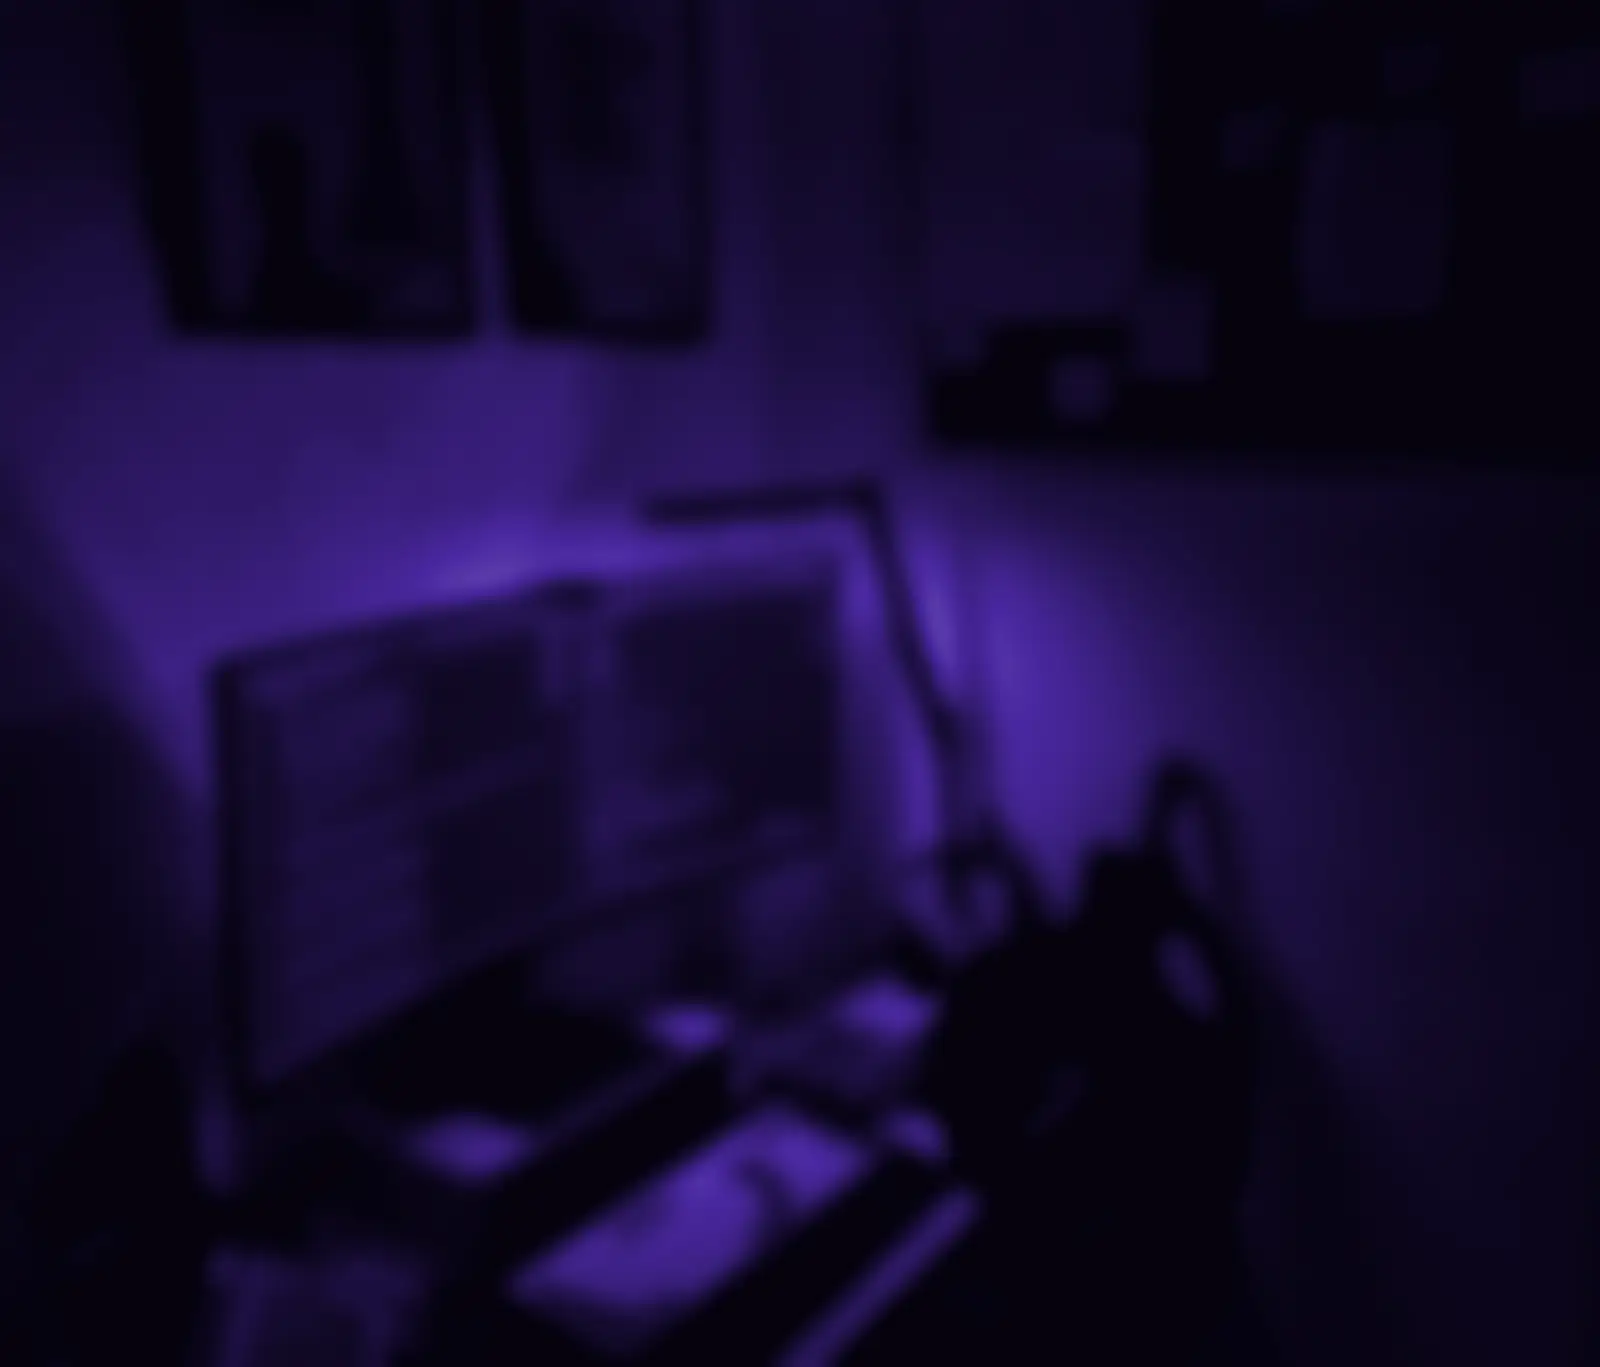
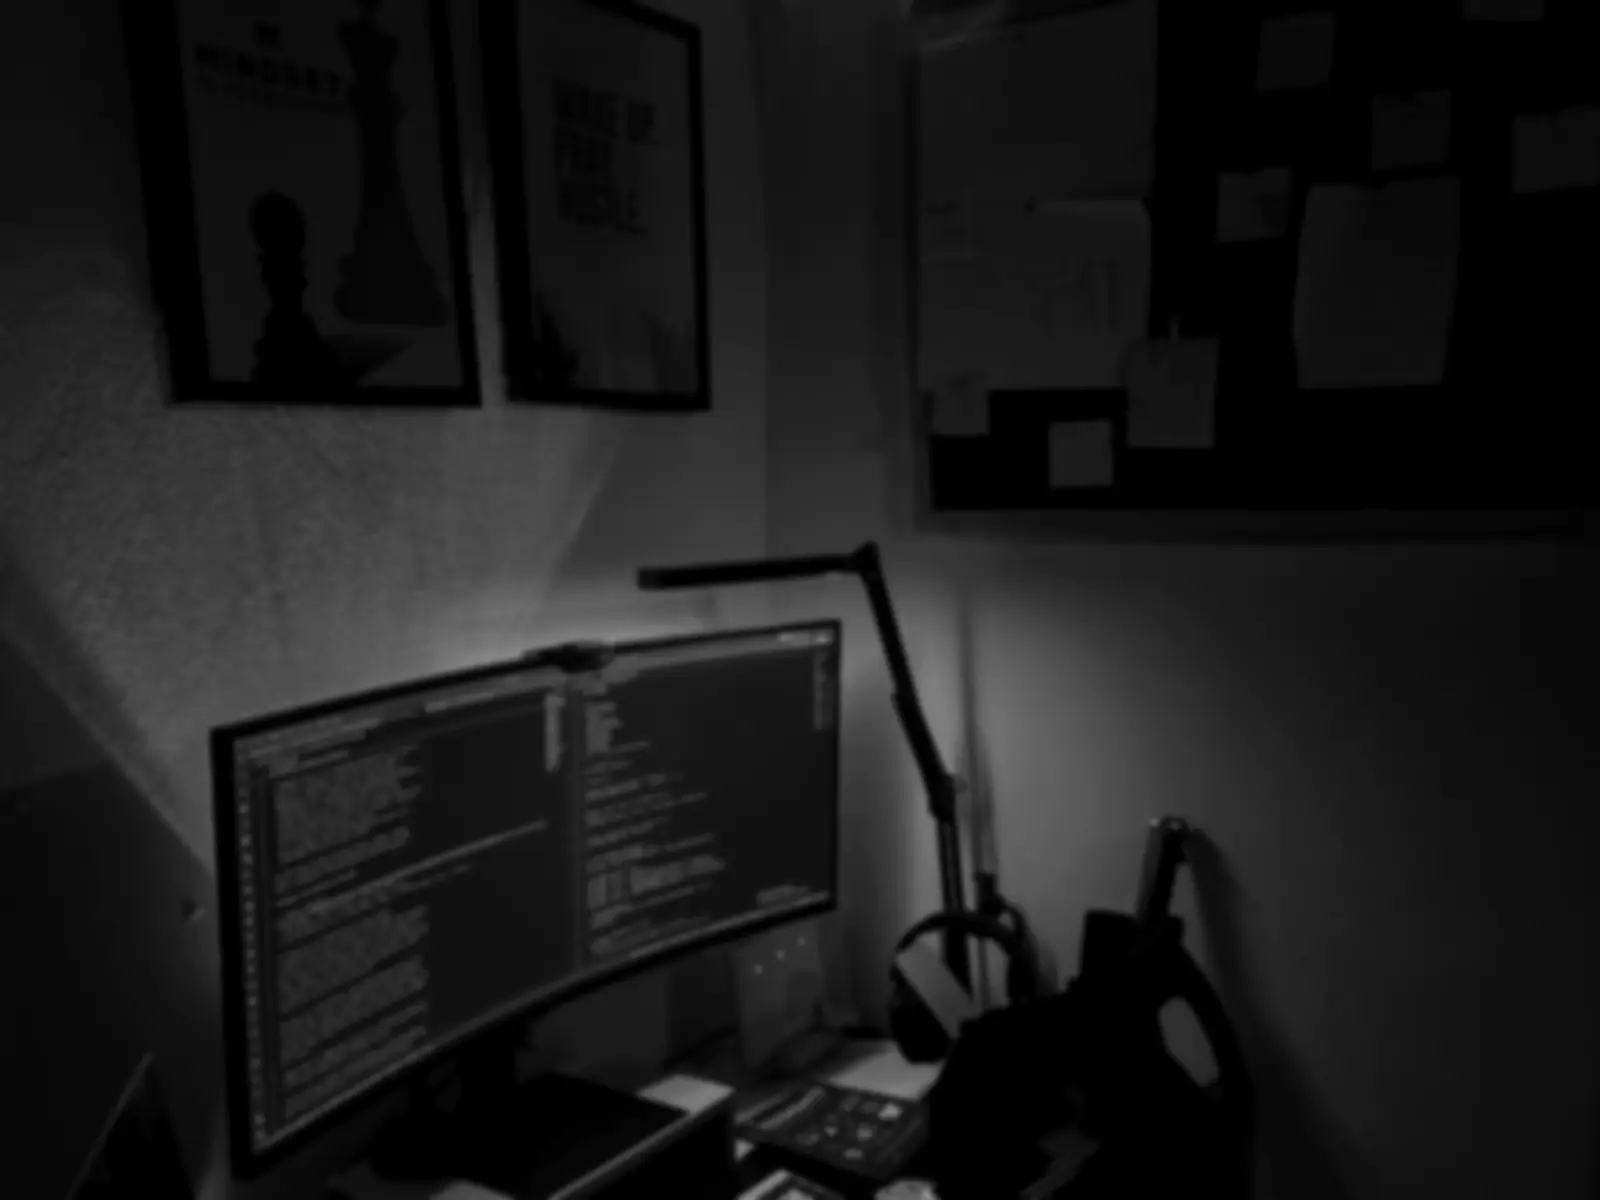
Redesign tweaks: black shirt, workspace background, black/purple themes, links
- Recolour the T-shirt in the hero, schema and OG photos to black
- Hero background: workspace photo in black and grey, tinted purple only in the purple theme
- Dark theme is now pure black (toggle: black / purple)
- Experience links to Dawnily, MindTheGap and Genesys Tech Hub (fix Dawnily spelling)
- Add Instagram (portfolio) to socials, JSON-LD sameAs and llms.txt
- LetDap and GreenVerify phone-screenshot previews on cards and project pages

diff --git a/src/components/Experience.jsx b/src/components/Experience.jsx
@@ -1,11 +1,17 @@
-import { Briefcase, GraduationCap } from "lucide-react";
+import { ArrowUpRight, Briefcase, GraduationCap } from "lucide-react";
 import SectionIntro from "./SectionIntro";
 
 // Roles as stated by Emmanuel; no dates or details beyond that.
 const ROLES = [
-  { role: "Software Engineer", org: "Dwanily", period: "Present", Icon: Briefcase },
-  { role: "Software Engineer", org: "MindTheGap", period: "Present", Icon: Briefcase },
-  { role: "Software Engineering Intern", org: "Genesys Tech Hub", period: "Internship", Icon: GraduationCap },
+  { role: "Software Engineer", org: "Dawnily", href: "https://www.dawnily.com/", period: "Present", Icon: Briefcase },
+  { role: "Software Engineer", org: "MindTheGap", href: "https://mindthegap.ng/", period: "Present", Icon: Briefcase },
+  {
+    role: "Software Engineering Intern",
+    org: "Genesys Tech Hub",
+    href: "https://genesystechhub.com/",
+    period: "Internship",
+    Icon: GraduationCap,
+  },
 ];
 
 export default function Experience() {
@@ -25,7 +31,7 @@ export default function Experience() {
             className="absolute top-2 bottom-2 left-0 w-0.5 origin-top scale-y-0 bg-gradient-to-b from-accent-2 via-accent to-transparent transition-transform delay-200 duration-[1400ms] ease-out [.visible_&]:scale-y-100"
             aria-hidden="true"
           ></span>
-          {ROLES.map(({ role, org, period, Icon }, i) => (
+          {ROLES.map(({ role, org, href, period, Icon }, i) => (
             <li
               key={org}
               className="relative pb-10 pl-12 opacity-0 transition-[opacity,transform] duration-700 last:pb-0 [.visible_&]:translate-x-0 [.visible_&]:opacity-100 -translate-x-4"
@@ -37,7 +43,20 @@ export default function Experience() {
               <div className="group rounded-2xl border border-border bg-card px-6 py-5 transition-[border-color,background,transform] duration-300 hover:translate-x-1 hover:border-border-accent hover:bg-card-hover">
                 <div className="flex flex-wrap items-center justify-between gap-2">
                   <h3 className="font-display text-[1.15rem] font-bold tracking-[-0.02em] text-fg">
-                    {role} <span className="text-accent">@ {org}</span>
+                    {role}{" "}
+                    <a
+                      href={href}
+                      target="_blank"
+                      rel="noopener"
+                      className="group/link inline-flex items-center gap-0.5 text-accent no-underline hover:underline hover:underline-offset-4"
+                    >
+                      @ {org}
+                      <ArrowUpRight
+                        size={16}
+                        aria-hidden="true"
+                        className="transition-transform duration-200 group-hover/link:translate-x-0.5 group-hover/link:-translate-y-0.5"
+                      />
+                    </a>
                   </h3>
                   <span className="rounded-full border border-border-accent bg-accent-muted px-3 py-1 font-mono text-[0.66rem] tracking-[0.1em] text-accent uppercase">
                     {period}

diff --git a/src/components/Hero.jsx b/src/components/Hero.jsx
@@ -31,11 +31,12 @@ export default function Hero() {
       ref={ref}
       className="relative isolate flex min-h-[min(100svh,980px)] items-center overflow-hidden px-[max(20px,5vw)] pt-32 pb-20 max-lg:pt-28 max-sm:px-[max(22px,6vw)] max-sm:pt-26 max-sm:pb-14"
     >
-      {/* Background: Emmanuel's own desk setup, blurred and graded purple. */}
+      {/* Background: Emmanuel's own desk setup in black and grey; the purple theme tints it. */}
       <div className="absolute -inset-8 -z-20 transition-transform duration-300 ease-out" style={parallax(-14)}>
-        <img src="/hero-bg.webp" alt="" aria-hidden="true" width="1600" height="1367" decoding="async" className="h-full w-full object-cover" />
+        <img src="/hero-bg.webp" alt="" aria-hidden="true" width="1600" height="1200" decoding="async" className="h-full w-full object-cover object-[30%_40%]" />
+        <div className="absolute inset-0 bg-[#6d4aff] opacity-[var(--hero-tint)] mix-blend-color transition-opacity duration-500"></div>
       </div>
-      <div className="absolute inset-0 -z-10 bg-[linear-gradient(90deg,var(--bg)_0%,color-mix(in_srgb,var(--bg)_70%,transparent)_42%,color-mix(in_srgb,var(--bg)_10%,transparent)_100%)] max-lg:bg-[linear-gradient(180deg,color-mix(in_srgb,var(--bg)_70%,transparent)_0%,var(--bg)_100%)]"></div>
+      <div className="absolute inset-0 -z-10 bg-[linear-gradient(90deg,color-mix(in_srgb,var(--bg)_92%,transparent)_0%,color-mix(in_srgb,var(--bg)_62%,transparent)_45%,color-mix(in_srgb,var(--bg)_15%,transparent)_100%)] max-lg:bg-[linear-gradient(180deg,color-mix(in_srgb,var(--bg)_70%,transparent)_0%,var(--bg)_100%)]"></div>
       <div className="absolute inset-x-0 bottom-0 -z-10 h-40 bg-gradient-to-t from-bg to-transparent"></div>
       <div className="pointer-events-none absolute -top-40 -left-40 -z-10 h-[520px] w-[520px] rounded-full bg-glow opacity-25 blur-[120px]"></div>
 

diff --git a/src/data/projects.jsx b/src/data/projects.jsx
@@ -4,6 +4,8 @@ import cryptotrackerLogo from "../assets/cryptotracker.png";
 import foreverbuyLogo from "../assets/foreverbuy-logo.png";
 import learnableLogo from "../assets/learnable-logo.png";
 import edgeLogisticsLogo from "../assets/edge-logistics-logo.png";
+import letdapScreen from "../assets/screens/letdap.webp";
+import greenverifyScreen from "../assets/screens/greenverify.webp";
 import edgeLogisticsScreen from "../assets/screens/edge-logistics.webp";
 import learnableScreen from "../assets/screens/learnable.webp";
 import foreverbuyScreen from "../assets/screens/foreverbuy.webp";
@@ -12,11 +14,13 @@ import cryptotrackerScreen from "../assets/screens/cryptotracker.webp";
 
 // Each project gets a card on the homepage and its own page at /projects/<slug>.
 // `summary` is plain text, used for the project page's meta description and structured data.
-// `screenshot` (800x500 WebP of the live site) is optional; cards fall back to the logo.
+// `screenshot` (800x500 WebP of the live site; mobile-only captures are framed in a phone) is
+// optional; cards fall back to the logo.
 export const PROJECTS = [
   {
     number: "01",
     slug: "letdap",
+    screenshot: letdapScreen,
     name: "LetDap",
     summary:
       "LetDap is a social event management platform. Emmanuel Ngene contributed as a backend engineer: NestJS APIs, event scheduling and MongoDB optimization.",
@@ -68,6 +72,7 @@ export const PROJECTS = [
   {
     number: "02",
     slug: "greenverify",
+    screenshot: greenverifyScreen,
     name: "GreenVerify",
     summary:
       "GreenVerify is an identity verification and business compliance platform in Nigeria (NIN, BVN, CAC, SCUML, Tax ID), built full-stack by Emmanuel Ngene.",

diff --git a/src/entry-server.jsx b/src/entry-server.jsx
@@ -34,7 +34,7 @@ export function llmsTxt() {
 
 > ${PERSON.description}
 
-Emmanuel Ngene, also known as Ngene Emmanuel Somto or "Emmy" (brand: emmycodes / Emmy.codes), is a full-stack developer based in Nigeria, currently a software engineer at Dwanily and MindTheGap, and a former intern at Genesys Tech Hub. Some of his work is under NDA, including a government app with more than 300 screens. He builds production-ready web and mobile products end to end: React, Next.js and React Native on the frontend; Node.js, NestJS, Python and FastAPI on the backend; PostgreSQL and MongoDB for data. He is available for freelance work.
+Emmanuel Ngene, also known as Ngene Emmanuel Somto or "Emmy" (brand: emmycodes / Emmy.codes), is a full-stack developer based in Nigeria, currently a software engineer at Dawnily Technology and MindTheGap, and a former intern at Genesys Tech Hub. Some of his work is under NDA, including a government app with more than 300 screens. He builds production-ready web and mobile products end to end: React, Next.js and React Native on the frontend; Node.js, NestJS, Python and FastAPI on the backend; PostgreSQL and MongoDB for data. He is available for freelance work.
 
 ## Key pages
 
@@ -53,6 +53,7 @@ ${projects}
 - LinkedIn: https://www.linkedin.com/in/emmanuel-ngene-708337263
 - X (Twitter): https://x.com/_devemmy
 - TikTok: https://www.tiktok.com/@_devemmy
+- Instagram (portfolio): https://www.instagram.com/_devemmy
 - Email: ${PERSON.email}
 `;
 }

diff --git a/src/index.css b/src/index.css
@@ -22,12 +22,13 @@
   --font-sans: "DM Sans", sans-serif;
 }
 
-/* Two themes, toggled from the nav: near-black with violet accents, and deep indigo. `accent`
-   is for text/lines on the background; `accent2` is the saturated fill behind white text. */
+/* Two themes, toggled from the nav: "dark" is pure black with violet accents, "purple" is deep
+   indigo. `accent` is for text/lines on the background; `accent2` is the saturated fill behind
+   white text. `--hero-tint` is how strongly the (greyscale) hero photo is tinted purple. */
 [data-theme="dark"] {
-  --bg: #050507;
-  --bg2: #0a0910;
-  --bg3: #12101a;
+  --bg: #000000;
+  --bg2: #08080a;
+  --bg3: #111114;
   --fg: #f5f3ff;
   --fg2: #a3a0b5;
   --fg3: #2a2738;
@@ -38,8 +39,9 @@
   --border-accent: rgba(167, 139, 250, 0.35);
   --card: rgba(255, 255, 255, 0.03);
   --card-hover: rgba(124, 92, 255, 0.08);
-  --nav-bg: rgba(5, 5, 7, 0.72);
+  --nav-bg: rgba(0, 0, 0, 0.72);
   --glow: rgba(124, 92, 255, 0.55);
+  --hero-tint: 0;
 }
 [data-theme="purple"] {
   --bg: #0c0a1d;
@@ -57,6 +59,7 @@
   --card-hover: rgba(124, 92, 255, 0.13);
   --nav-bg: rgba(12, 10, 29, 0.74);
   --glow: rgba(124, 92, 255, 0.7);
+  --hero-tint: 0.9;
 }
 
 html {

diff --git a/src/components/ThemeToggle.jsx b/src/components/ThemeToggle.jsx
@@ -1,16 +1,17 @@
 import { Moon, Sparkles } from "lucide-react";
 
-// Nav toggle between the two themes: "dark" (near-black) and "purple" (deep indigo).
+// Nav toggle between the two themes: "dark" (pure black) and "purple" (deep indigo).
 export default function ThemeToggle({ theme, onChange }) {
   const isPurple = theme === "purple";
   const next = isPurple ? "dark" : "purple";
+  const nextLabel = isPurple ? "black" : "purple";
 
   return (
     <button
       type="button"
       onClick={() => onChange(next)}
-      aria-label={`Switch to ${next} theme`}
-      title={`Switch to ${next} theme`}
+      aria-label={`Switch to ${nextLabel} theme`}
+      title={`Switch to ${nextLabel} theme`}
       className="relative flex h-9 w-16 shrink-0 cursor-none items-center rounded-full border border-border-accent bg-accent-muted p-1 transition-colors duration-300"
     >
       <span

diff --git a/src/site.js b/src/site.js
@@ -11,6 +11,7 @@ export const SOCIAL_PROFILES = [
   "https://www.linkedin.com/in/emmanuel-ngene-708337263",
   "https://x.com/_devemmy",
   "https://www.tiktok.com/@_devemmy",
+  "https://www.instagram.com/_devemmy",
 ];
 
 export const PERSON = {
@@ -21,7 +22,10 @@ export const PERSON = {
     "Emmanuel Ngene (Emmy) is a full-stack software developer in Nigeria, building scalable web and mobile apps for startups and organizations.",
   email: "emmanuelngene145@gmail.com",
   // Current employers, as stated by Emmanuel (names only).
-  worksFor: ["Dwanily", "MindTheGap"],
+  worksFor: [
+    { name: "Dawnily Technology", url: "https://www.dawnily.com/" },
+    { name: "MindTheGap", url: "https://mindthegap.ng/" },
+  ],
   knowsAbout: [
     "React",
     "Next.js",

diff --git a/src/data/social.js b/src/data/social.js
@@ -1,4 +1,4 @@
-import { siGithub, siTiktok, siX } from "simple-icons";
+import { siGithub, siInstagram, siTiktok, siX } from "simple-icons";
 
 // LinkedIn isn't in simple-icons (trademark request), so its mark is inlined here.
 const LINKEDIN_PATH =
@@ -14,6 +14,12 @@ export const SOCIALS = [
     path: LINKEDIN_PATH,
   },
   { label: "X (Twitter)", handle: "@_devemmy", href: "https://x.com/_devemmy", path: siX.path },
+  {
+    label: "Instagram (portfolio)",
+    handle: "@_devemmy",
+    href: "https://www.instagram.com/_devemmy",
+    path: siInstagram.path,
+  },
   {
     label: "TikTok",
     handle: "@_devemmy",

diff --git a/index.html b/index.html
@@ -6,7 +6,7 @@
     <!--head-->
     <meta name="author" content="Emmanuel Ngene" />
     <meta name="robots" content="index, follow, max-image-preview:large" />
-    <meta name="theme-color" content="#080808" />
+    <meta name="theme-color" content="#000000" />
     <link rel="icon" href="/favicon.ico" sizes="48x48" />
     <link rel="icon" href="/icon.svg" type="image/svg+xml" />
     <link rel="apple-touch-icon" href="/apple-touch-icon.png" />

diff --git a/src/seo.js b/src/seo.js
@@ -22,7 +22,7 @@ function personNode() {
     nationality: { "@type": "Country", name: "Nigeria" },
     address: { "@type": "PostalAddress", addressCountry: "NG" },
     knowsAbout: PERSON.knowsAbout,
-    worksFor: PERSON.worksFor.map((name) => ({ "@type": "Organization", name })),
+    worksFor: PERSON.worksFor.map(({ name, url }) => ({ "@type": "Organization", name, url })),
     sameAs: SOCIAL_PROFILES,
   };
 }
